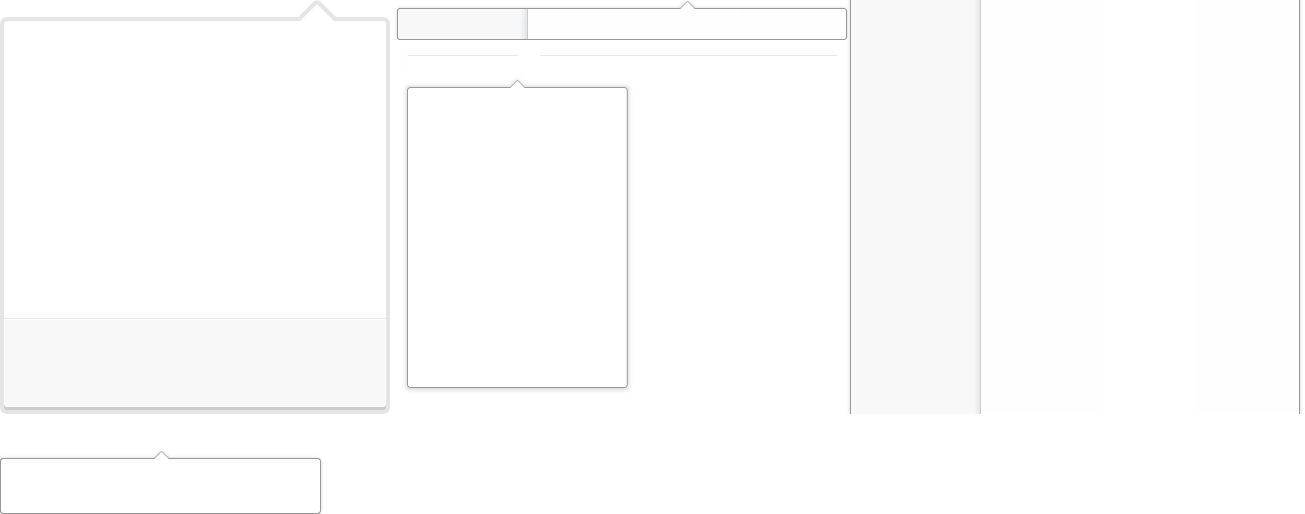
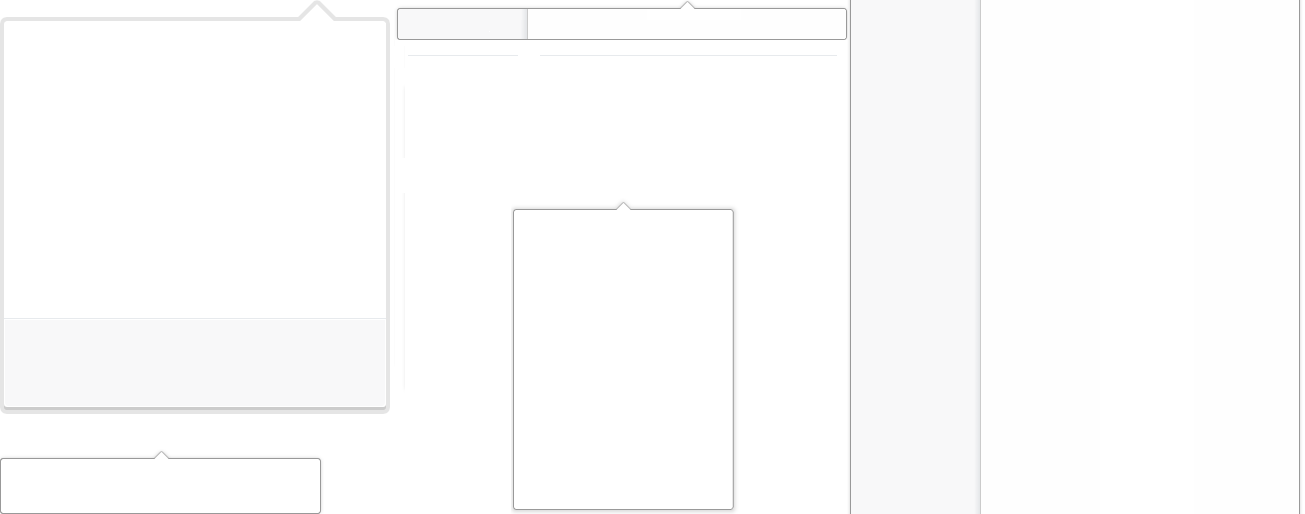
Fixes menu and black flickering

Changed region(s): [[0.3985, 0.965, 0.5517, 0.9961], [0.3065, 0.7471, 0.4598, 0.7782]]

diff --git a/public/stylesheets/style.css b/public/stylesheets/style.css
@@ -20,9 +20,9 @@ audio:not([controls]), [hidden] { display: none; }
 Base
 ========================================================================== */
 /* 1. Correct text resizing oddly in IE6/7 when body font-size is set using em units 2. Force vertical scrollbar in non-IE 3. Prevent iOS text size adjust on device orientation change, without disabling user zoom: h5bp.com/g */
-html { font-size: 100%; overflow-y: scroll; -webkit-text-size-adjust: 100%; -ms-text-size-adjust: 100%; }
+html { font-size: 100%; overflow-y: scroll; -webkit-text-size-adjust: 100%; -ms-text-size-adjust: 100%; -webkit-perspective: 1000; -webkit-backface-visibility: hidden; }
 
-body { margin: 0; font-size: 13px; line-height: 1.231; font-family: sans-serif; color: #222; }
+body { margin: 0; font-size: 13px; line-height: 1.231; font-family: sans-serif; color: #222; -webkit-perspective: 1000; -webkit-backface-visibility: hidden; }
 
 button, input, select, textarea { font-family: sans-serif; color: #222; }
 
@@ -248,8 +248,12 @@ header nav .content form .input_field input[type="submit"] { right: 10px; top: 1
 header nav .content form .input_field span#autocomplete_spinner { position: absolute; right: 17px; top: 17px; }
 header nav .content .sign_out { float: right; }
 header nav .content .areas_selector { float: left; margin-right: 10px; position: relative; padding: 7px 14px; width: 150px; color: white; font-size: 15px; text-shadow: 0px 1px 1px #0F4768; border: 1px solid #13587F; -moz-border-radius: 5px; -webkit-border-radius: 5px; -o-border-radius: 5px; -ms-border-radius: 5px; -khtml-border-radius: 5px; border-radius: 5px; -moz-box-shadow: 0 1px 1px 0 #369acf; -webkit-box-shadow: 0 1px 1px 0 #369acf; -o-box-shadow: 0 1px 1px 0 #369acf; box-shadow: 0 1px 1px 0 #369acf; background: #3396cd; background: -moz-linear-gradient(top, #3396cd 0%, #2080b5 100%); background: -webkit-gradient(linear, left top, left bottom, color-stop(0%, #3396cd), color-stop(100%, #2080b5)); background: -webkit-linear-gradient(top, #3396cd 0%, #2080b5 100%); background: -o-linear-gradient(top, #3396cd 0%, #2080b5 100%); background: -ms-linear-gradient(top, #3396cd 0%, #2080b5 100%); filter: progid:DXImageTransform.Microsoft.gradient(startColorstr='#3396cd', endColorstr='#2080b5',GradientType=0 ); background: linear-gradient(top, #3396cd 0%, #2080b5 100%); cursor: pointer; }
-header nav .content .areas_selector .popover { display: none; position: absolute; width: 231px; height: 311px; z-index: 1000; background: url("/images/popovers_bkg.png") no-repeat -400px -78px; }
+header nav .content .areas_selector .popover { display: none; position: absolute; width: 231px; height: 311px; z-index: 1000; background: url("/images/popovers_bkg.png") no-repeat -511px -202px; }
+header nav .content .areas_selector .popover .gtop, header nav .content .areas_selector .popover .gbottom { z-index: 2000; background: url("/images/popovers_bkg.png") no-repeat -855px -478px; position: absolute; height: 26px; width: 219px; left: 3px; }
+header nav .content .areas_selector .popover .gtop { top: 10px; background-position: -1080px -488px; }
+header nav .content .areas_selector .popover .gbottom { bottom: 5px; }
 header nav .content .areas_selector .popover .scroll-pane { height: 280px; width: 195px; overflow: hidden; margin: 20px 0 0 20px; outline: none; }
+header nav .content .areas_selector .popover .scroll-pane .jspDrag { z-index: 2200; }
 header nav .content .areas_selector .popover .scroll-pane ul { margin: 0; padding: 0; width: 195px; }
 header nav .content .areas_selector .popover .scroll-pane ul li { text-shadow: none; color: #333; }
 header nav .content .areas_selector .popover .scroll-pane ul li.last a { border: none; }
@@ -916,7 +920,6 @@ a.editable:hover { width: 65px; height: 65px; background: url("/images/box_simpl
 #container article .right .content ul.tags li:hover.add { background-position: left -105px; }
 #container article .right .content ul.tags li:hover.add a { background: none; color: #465866; }
 
-/* Tags */
 /* Sharing */
 .ie7 ul.sharing li { margin: 0 3px 0 3px; }
 
@@ -1084,8 +1087,8 @@ Autocomplete
 .autocomplete ul.results li h3 { text-transform: uppercase; font-weight: bold; font-size: 12px; color: #465866; }
 .autocomplete ul.results li .summary { margin-top: 10px; width: 120px; text-align: right; }
 .autocomplete ul.results li.politicians { margin-bottom: 0; background: none; }
-.autocomplete ul.results li.areas { margin-bottom: 0; }
-.autocomplete ul.results li.areas ul { margin-top: -27px; }
+.autocomplete ul.results li.areas2 { margin-bottom: 0; }
+.autocomplete ul.results li.areas2 ul { margin-top: -27px; }
 .autocomplete ul.results li.users { margin-bottom: 0; }
 .autocomplete ul.results li.users ul { margin-top: -40px; }
 .autocomplete ul.results li.contents { margin: 0; }
@@ -1146,7 +1149,7 @@ Footer
 footer { padding-top: 38px; background: white; border-top: 1px solid #c2c4c6; }
 footer .content { clear: both; overflow: hidden; padding: 0 0 23px 0; width: 900px; }
 footer ul.copyright { float: left; margin-right: 35px; }
-footer .home, footer .areas, footer .aobut { float: left; margin-right: 35px; }
+footer .home, footer .areas, footer .about { float: left; margin-right: 35px; }
 footer .content .home { margin-right: 50px; }
 footer .content .areas ul { float: left; margin-right: 34px; }
 footer .content ul li { margin-bottom: 4px; color: #7d8a92; font-size: 13px; }

diff --git a/public/stylesheets/main.css b/public/stylesheets/main.css
@@ -92,8 +92,12 @@ header nav .content form .input_field input[type="submit"] { right: 10px; top: 1
 header nav .content form .input_field span#autocomplete_spinner { position: absolute; right: 17px; top: 17px; }
 header nav .content .sign_out { float: right; }
 header nav .content .areas_selector { float: left; margin-right: 10px; position: relative; padding: 7px 14px; width: 150px; color: white; font-size: 15px; text-shadow: 0px 1px 1px #0F4768; border: 1px solid #13587F; -moz-border-radius: 5px; -webkit-border-radius: 5px; -o-border-radius: 5px; -ms-border-radius: 5px; -khtml-border-radius: 5px; border-radius: 5px; -moz-box-shadow: 0 1px 1px 0 #369acf; -webkit-box-shadow: 0 1px 1px 0 #369acf; -o-box-shadow: 0 1px 1px 0 #369acf; box-shadow: 0 1px 1px 0 #369acf; background: #3396cd; background: -moz-linear-gradient(top, #3396cd 0%, #2080b5 100%); background: -webkit-gradient(linear, left top, left bottom, color-stop(0%, #3396cd), color-stop(100%, #2080b5)); background: -webkit-linear-gradient(top, #3396cd 0%, #2080b5 100%); background: -o-linear-gradient(top, #3396cd 0%, #2080b5 100%); background: -ms-linear-gradient(top, #3396cd 0%, #2080b5 100%); filter: progid:DXImageTransform.Microsoft.gradient(startColorstr='#3396cd', endColorstr='#2080b5',GradientType=0 ); background: linear-gradient(top, #3396cd 0%, #2080b5 100%); cursor: pointer; }
-header nav .content .areas_selector .popover { display: none; position: absolute; width: 231px; height: 311px; z-index: 1000; background: url("/images/popovers_bkg.png") no-repeat -400px -78px; }
+header nav .content .areas_selector .popover { display: none; position: absolute; width: 231px; height: 311px; z-index: 1000; background: url("/images/popovers_bkg.png") no-repeat -511px -202px; }
+header nav .content .areas_selector .popover .gtop, header nav .content .areas_selector .popover .gbottom { z-index: 2000; background: url("/images/popovers_bkg.png") no-repeat -855px -478px; position: absolute; height: 26px; width: 219px; left: 3px; }
+header nav .content .areas_selector .popover .gtop { top: 10px; background-position: -1080px -488px; }
+header nav .content .areas_selector .popover .gbottom { bottom: 5px; }
 header nav .content .areas_selector .popover .scroll-pane { height: 280px; width: 195px; overflow: hidden; margin: 20px 0 0 20px; outline: none; }
+header nav .content .areas_selector .popover .scroll-pane .jspDrag { z-index: 2200; }
 header nav .content .areas_selector .popover .scroll-pane ul { margin: 0; padding: 0; width: 195px; }
 header nav .content .areas_selector .popover .scroll-pane ul li { text-shadow: none; color: #333; }
 header nav .content .areas_selector .popover .scroll-pane ul li.last a { border: none; }
@@ -760,7 +764,6 @@ a.editable:hover { width: 65px; height: 65px; background: url("/images/box_simpl
 #container article .right .content ul.tags li:hover.add { background-position: left -105px; }
 #container article .right .content ul.tags li:hover.add a { background: none; color: #465866; }
 
-/* Tags */
 /* Sharing */
 .ie7 ul.sharing li { margin: 0 3px 0 3px; }
 
@@ -928,8 +931,8 @@ Autocomplete
 .autocomplete ul.results li h3 { text-transform: uppercase; font-weight: bold; font-size: 12px; color: #465866; }
 .autocomplete ul.results li .summary { margin-top: 10px; width: 120px; text-align: right; }
 .autocomplete ul.results li.politicians { margin-bottom: 0; background: none; }
-.autocomplete ul.results li.areas { margin-bottom: 0; }
-.autocomplete ul.results li.areas ul { margin-top: -27px; }
+.autocomplete ul.results li.areas2 { margin-bottom: 0; }
+.autocomplete ul.results li.areas2 ul { margin-top: -27px; }
 .autocomplete ul.results li.users { margin-bottom: 0; }
 .autocomplete ul.results li.users ul { margin-top: -40px; }
 .autocomplete ul.results li.contents { margin: 0; }
@@ -990,7 +993,7 @@ Footer
 footer { padding-top: 38px; background: white; border-top: 1px solid #c2c4c6; }
 footer .content { clear: both; overflow: hidden; padding: 0 0 23px 0; width: 900px; }
 footer ul.copyright { float: left; margin-right: 35px; }
-footer .home, footer .areas, footer .aobut { float: left; margin-right: 35px; }
+footer .home, footer .areas, footer .about { float: left; margin-right: 35px; }
 footer .content .home { margin-right: 50px; }
 footer .content .areas ul { float: left; margin-right: 34px; }
 footer .content ul li { margin-bottom: 4px; color: #7d8a92; font-size: 13px; }

diff --git a/public/scss/main.scss b/public/scss/main.scss
@@ -253,7 +253,26 @@ header {
           width:231px;
           height: 311px;
           z-index:1000;
-          background: url("/images/popovers_bkg.png") no-repeat -400px -78px;
+          background: url("/images/popovers_bkg.png") no-repeat -511px -202px;
+
+          .gtop,
+          .gbottom {
+            z-index:2000;
+            background: url("/images/popovers_bkg.png") no-repeat -855px -478px;
+            position:absolute;
+            height: 26px;
+            width: 219px;
+            left: 3px;
+          }
+
+          .gtop {
+            top: 10px;
+            background-position: -1080px -488px;
+          }
+
+          .gbottom {
+            bottom: 5px;
+          }
 
           .scroll-pane {
             height: 280px;
@@ -261,6 +280,10 @@ header {
             overflow: hidden;
             margin: 20px 0 0 20px;
             outline:none;
+
+            .jspDrag {
+              z-index:2200;
+            }
 
             ul {
               margin:0; padding:0;
@@ -2961,37 +2984,6 @@ a.editable {
   }
 }
 
-
-/* Tags */
-//#container article .right .content ul.tags {
-//  margin-bottom:20px;
-//  padding-bottom:10px;
-//  list-style:none;
-
-//  li {
-//    //background:none;
-//    padding:0;
-//    display:block;
-//    clear:both;
-//    overflow:hidden;
-//    margin-bottom:4px;
-
-//    a {
-//    //  padding:6px 12px;
-//      float:left;
-//      display:block;
-////      background:#f0f0f0;
-//      font-size:13px;
-//      color:$link_color;
-//      font-weight:normal;
-
-////      -webkit-border-radius: 14px;
-////      -moz-border-radius: 14px;
-////      border-radius: 14px;
-//    }
-//  }
-//} // ul.tags
-
 /* Sharing */
 .ie7 ul.sharing li { margin: 0 3px 0 3px; }
 
@@ -3172,7 +3164,15 @@ a.editable {
       height: 12px;
       line-height: 11px;
       &.selected {
-        a { font-weight: bold; color: $white; text-shadow: 1px 1px 1px rgba(0, 0, 0, 0.3); &:hover {text-decoration:none; cursor:default;}}
+        a {
+          font-weight: bold;
+          color: $white;
+          text-shadow: 1px 1px 1px rgba(0, 0, 0, 0.3);
+          &:hover {
+            text-decoration:none;
+            cursor:default;
+          }
+        }
         @include border-radius(4px);
         background: url('/images/link_gradient_bkg.png');
       }
@@ -3632,7 +3632,7 @@ Autocomplete
       .summary { margin-top:10px; width:120px; text-align:right; }
 
       &.politicians { margin-bottom:0; background:none;}
-      &.areas { margin-bottom:0;  ul { margin-top:-27px; }}
+      &.areas2 { margin-bottom:0;  ul { margin-top:-27px; }}
       &.users { margin-bottom:0;  ul { margin-top:-40px; }}
 
       &.contents {
@@ -3823,7 +3823,7 @@ footer {
   .content { clear: both; overflow: hidden; padding: 0 0 23px 0; width: 900px; }
   ul.copyright { float: left; margin-right: 35px; }
 
-  .home, .areas, .aobut { float: left; margin-right: 35px; }
+  .home, .areas, .about { float: left; margin-right: 35px; }
 
   .content {
     .home { margin-right: 50px; }

diff --git a/public/stylesheets/boilerplate.css b/public/stylesheets/boilerplate.css
@@ -13,9 +13,9 @@ audio:not([controls]), [hidden] { display: none; }
 Base
 ========================================================================== */
 /* 1. Correct text resizing oddly in IE6/7 when body font-size is set using em units 2. Force vertical scrollbar in non-IE 3. Prevent iOS text size adjust on device orientation change, without disabling user zoom: h5bp.com/g */
-html { font-size: 100%; overflow-y: scroll; -webkit-text-size-adjust: 100%; -ms-text-size-adjust: 100%; }
+html { font-size: 100%; overflow-y: scroll; -webkit-text-size-adjust: 100%; -ms-text-size-adjust: 100%; -webkit-perspective: 1000; -webkit-backface-visibility: hidden; }
 
-body { margin: 0; font-size: 13px; line-height: 1.231; font-family: sans-serif; color: #222; }
+body { margin: 0; font-size: 13px; line-height: 1.231; font-family: sans-serif; color: #222; -webkit-perspective: 1000; -webkit-backface-visibility: hidden; }
 
 button, input, select, textarea { font-family: sans-serif; color: #222; }
 

diff --git a/public/scss/boilerplate.scss b/public/scss/boilerplate.scss
@@ -43,6 +43,8 @@ html {
   overflow-y: scroll;
   -webkit-text-size-adjust: 100%;
   -ms-text-size-adjust: 100%;
+  -webkit-perspective: 1000;
+  -webkit-backface-visibility: hidden;
 }
 
 body {
@@ -51,6 +53,8 @@ body {
   line-height: 1.231;
   font-family: sans-serif;
   color: #222;
+  -webkit-perspective: 1000;
+  -webkit-backface-visibility: hidden;
 }
 
 button, input, select, textarea {
